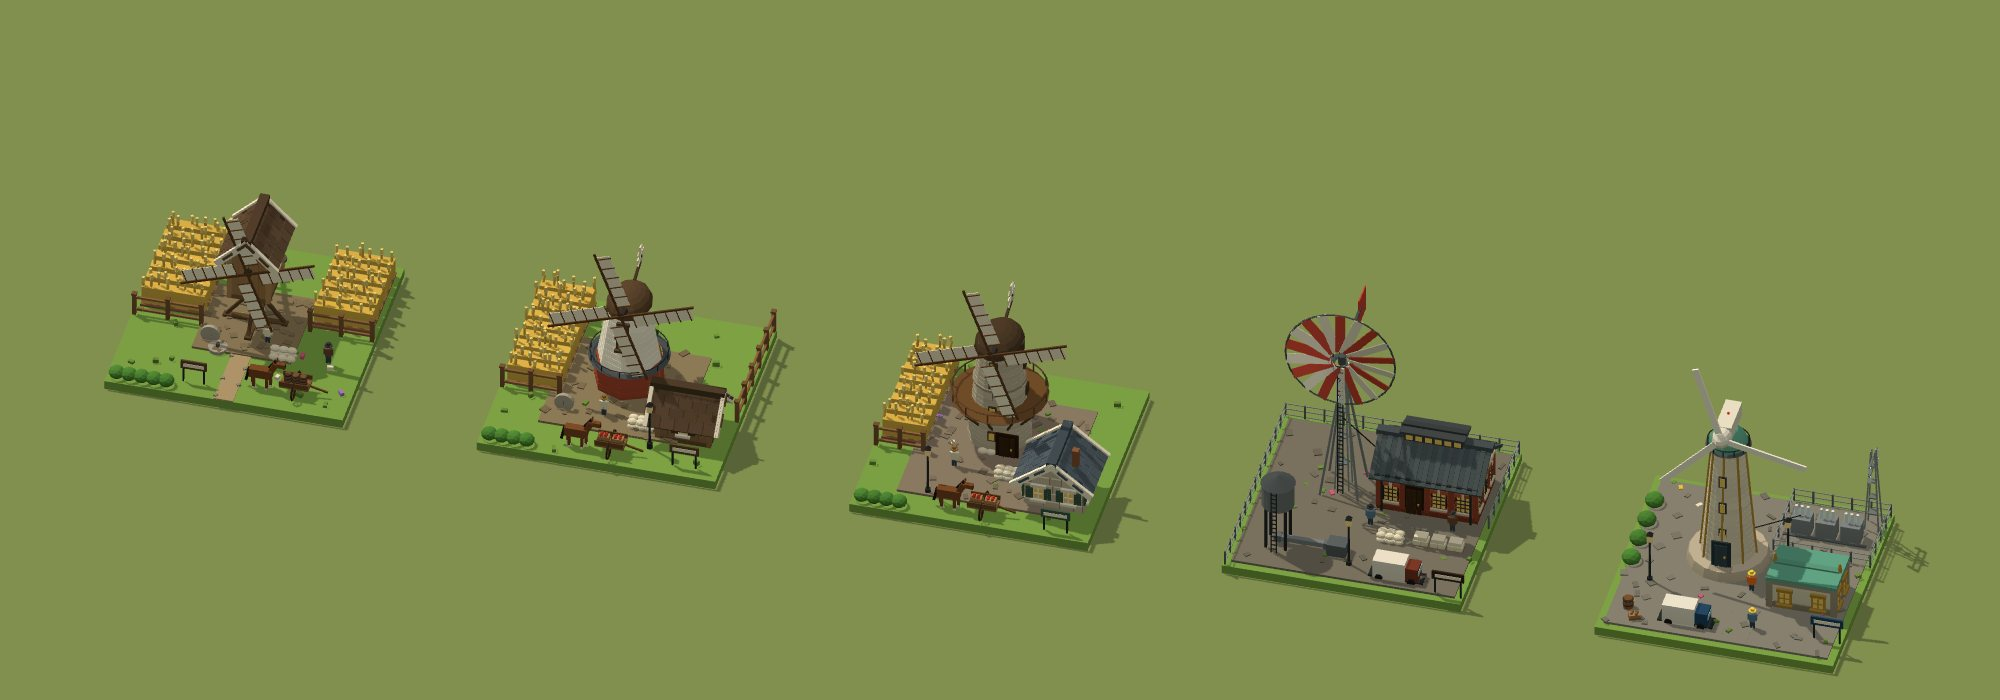
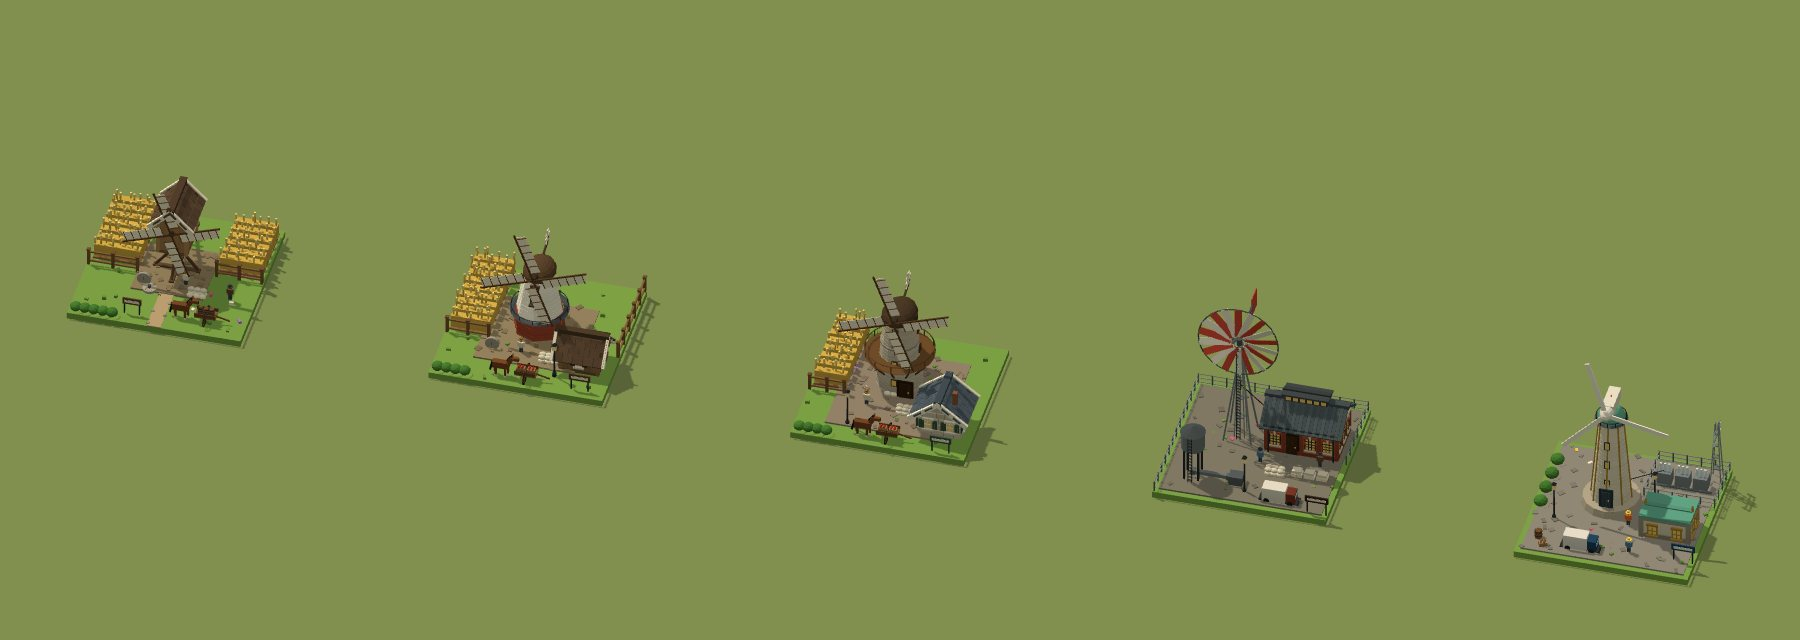
Keep the windmill chain on 1x1 lots
A windmill is a single tower, so its five tiers go back to one tile; the
other Group 2B chains keep the 2x2 lots their yards need.

diff --git a/README.md b/README.md
@@ -218,15 +218,15 @@ Nhà máy điện, xưởng đúc, nhà máy, lò luyện thép và mỏ than đ
 
 ### Nhóm 2B: Công nghiệp nhẹ, Chế biến và nghề nông thôn
 
-Xưởng cưa, cối xay gió, xưởng thủ công, lò luyện và lò gạch được dựng lại thành sa bàn chi tiết trên ô 2×2, mỗi cấp cao hơn cấp trước. Tám nghề lẻ (trại đốn gỗ, trạm kiểm lâm, trại thợ săn lông thú, xưởng đẽo đá, hố sỏi, trạm giao thương, xưởng thủ công 2×2, ruộng muối) giữ nguyên kích thước ô nhưng cũng thành sa bàn: cabin gỗ, tháp canh lửa, xe trượt chó kéo, giá cẩu đá, sàng sỏi, ô phơi muối.
+Xưởng cưa, xưởng thủ công, lò luyện và lò gạch được dựng lại thành sa bàn chi tiết trên ô 2×2; cối xay gió là tháp đơn nên giữ ô 1×1. Mỗi cấp cao hơn cấp trước. Tám nghề lẻ (trại đốn gỗ, trạm kiểm lâm, trại thợ săn lông thú, xưởng đẽo đá, hố sỏi, trạm giao thương, xưởng thủ công 2×2, ruộng muối) giữ nguyên kích thước ô nhưng cũng thành sa bàn: cabin gỗ, tháp canh lửa, xe trượt chó kéo, giá cẩu đá, sàng sỏi, ô phơi muối.
 
-| Chuỗi (2×2)    | Cấp                                                                                                                                                          |
-| -------------- | ------------------------------------------------------------------------------------------------------------------------------------------------------------ |
-| Xưởng cưa      | Xưởng cưa bánh xe nước → Xưởng cưa máng nước → Xưởng cưa thuỷ lực → Xưởng cưa hơi nước → Tổ hợp chế biến gỗ cơ khí                                           |
-| Cối xay gió    | Cối xay trụ gỗ → Cối xay thân bát giác → Tháp đá Hà Lan có ban công → Tháp gió đa cánh → Tháp phong điện đỉnh đồng                                           |
-| Xưởng thủ công | Lán thợ → Xưởng phường hội nhà khung gỗ có lò rèn → Xưởng bánh xe nước → Công xưởng hơi nước mái răng cưa → Viện chế tác chuẩn xác → Đại Viện Cơ khí Đồng hồ |
-| Lò luyện       | Lò luyện đất sét → Lò bễ sức nước → Lò phản xạ gạch → Lò cao công nghiệp → Lò luyện thép Bessemer → Lò hồ quang điện → Tháp Luyện kim Tinh khiết             |
-| Lò gạch        | Lò nung đống và giàn phơi gạch → Lò gạch vòm đôi → Lò vòng Hoffmann → Lò đường hầm → Nhà máy gốm sứ có lò chai                                               |
+| Chuỗi             | Cấp                                                                                                                                                          |
+| ----------------- | ------------------------------------------------------------------------------------------------------------------------------------------------------------ |
+| Xưởng cưa         | Xưởng cưa bánh xe nước → Xưởng cưa máng nước → Xưởng cưa thuỷ lực → Xưởng cưa hơi nước → Tổ hợp chế biến gỗ cơ khí                                           |
+| Cối xay gió (1×1) | Cối xay trụ gỗ → Cối xay thân bát giác → Tháp đá Hà Lan có ban công → Tháp gió đa cánh → Tháp phong điện đỉnh đồng                                           |
+| Xưởng thủ công    | Lán thợ → Xưởng phường hội nhà khung gỗ có lò rèn → Xưởng bánh xe nước → Công xưởng hơi nước mái răng cưa → Viện chế tác chuẩn xác → Đại Viện Cơ khí Đồng hồ |
+| Lò luyện          | Lò luyện đất sét → Lò bễ sức nước → Lò phản xạ gạch → Lò cao công nghiệp → Lò luyện thép Bessemer → Lò hồ quang điện → Tháp Luyện kim Tinh khiết             |
+| Lò gạch           | Lò nung đống và giàn phơi gạch → Lò gạch vòm đôi → Lò vòng Hoffmann → Lò đường hầm → Nhà máy gốm sứ có lò chai                                               |
 
 ![Chuỗi Xưởng cưa](docs/images/group2b-sawmill.jpg)
 
